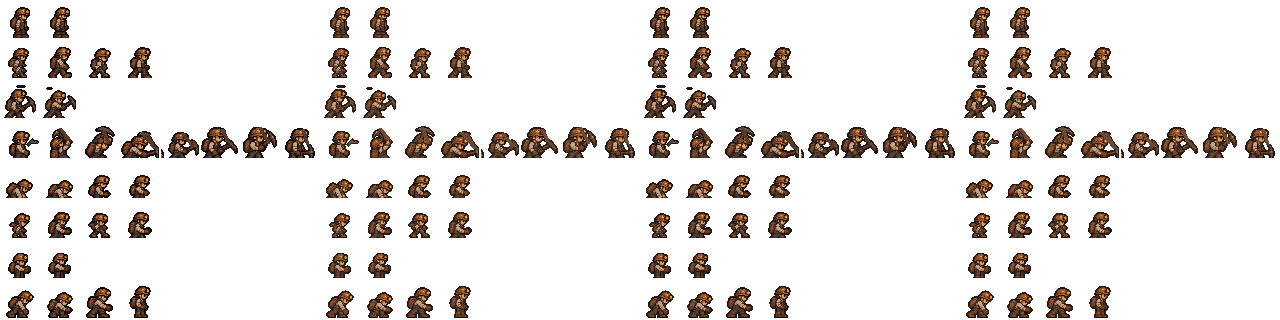
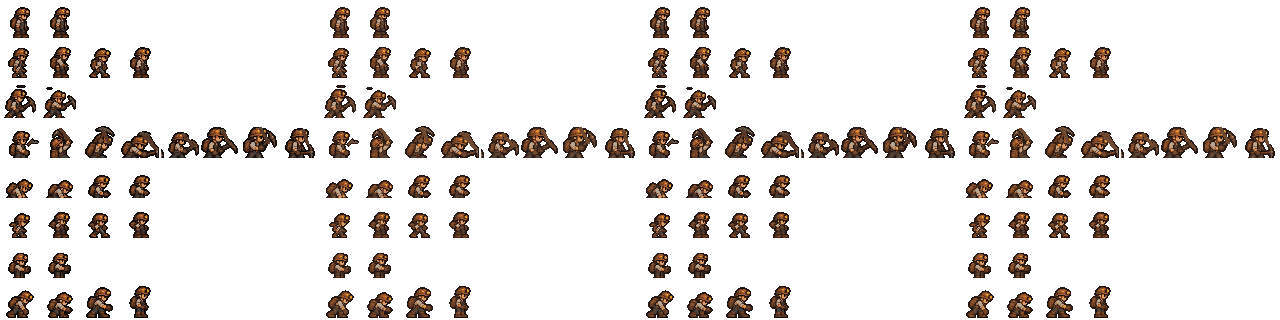
fix: add a visible side pose to walk cycle

diff --git a/tests/assets.test.ts b/tests/assets.test.ts
@@ -4,7 +4,12 @@ import { tmpdir } from 'node:os';
 import { join, resolve } from 'node:path';
 import { describe, expect, it, vi } from 'vitest';
 import { AssetStore } from '../src/render/assets/assetStore';
-import { D001_ASSET_FILES, D001_FALLBACK_GROUPS } from '../src/render/assets/d001Manifest';
+import {
+  D001_ASSET_FILES,
+  D001_ASSET_VERSION,
+  D001_FALLBACK_GROUPS,
+  d001AssetUrls,
+} from '../src/render/assets/d001Manifest';
 
 const root = resolve(import.meta.dirname, '..');
 const runtime = resolve(root, 'public/assets/d001/runtime');
@@ -43,6 +48,12 @@ function differenceMean(path: string, firstCrop: string, secondCrop: string, sec
 }
 
 describe('D-001 assets', () => {
+  it('version-tags runtime URLs so changed PNGs bypass the browser cache', () => {
+    const urls = Object.values(d001AssetUrls());
+    expect(urls).toHaveLength(Object.keys(D001_ASSET_FILES).length);
+    expect(urls.every((url) => url.endsWith(`?v=${D001_ASSET_VERSION}`))).toBe(true);
+  });
+
   it('matches every generated PNG to the generation specification dimensions', () => {
     const specification = JSON.parse(readFileSync(resolve(root, 'art/d001/generation-spec.json'), 'utf8')) as {
       runtimeAssets: Array<{ file: string; size: [number, number] }>;
@@ -190,6 +201,7 @@ describe('D-001 assets', () => {
         expect(Number(difference)).toBe(0);
       }
       const helmet = resolve(runtime, 'player-helmet-atlas.png');
+      const body = resolve(runtime, 'player-body-atlas.png');
       const boots = resolve(runtime, 'player-boots-atlas.png');
       const walkSpecification = JSON.parse(readFileSync(resolve(root, 'art/d001/generation-spec.json'), 'utf8')) as {
         playerMotion: {
@@ -206,7 +218,7 @@ describe('D-001 assets', () => {
         'left-foot-forward', 'side-upper-body-up', 'right-foot-forward', 'side-upper-body-up',
       ]);
       expect(walkSpecification.playerMotion.walk.lowerBodySources).toEqual([
-        'generated-left-foot', 'source-frame-1', 'generated-right-foot', 'source-frame-3',
+        'generated-left-foot', 'source-idle-frame-0', 'generated-right-foot', 'source-idle-frame-0',
       ]);
       expect(walkSpecification.playerMotion.walk.mirrorLowerBodyFrames).toEqual([]);
       for (const sourceFile of [
@@ -219,7 +231,12 @@ describe('D-001 assets', () => {
         expect(contacts.every((contact) => contact.length > 0)).toBe(true);
         expect(new Set(contacts.map((contact) => contact.join(','))).size).toBeGreaterThan(1);
         expect(contacts[0]!.join(',')).not.toBe(contacts[2]!.join(','));
-        expect(contacts[1]!.join(',')).not.toBe(contacts[3]!.join(','));
+        expect(contacts[1]!.join(',')).toBe(contacts[3]!.join(','));
+        expect(differenceMean(
+          body,
+          `40x40+40+${row * 40}`,
+          `40x40+120+${row * 40}`,
+        )).toBeGreaterThan(0.01);
         if (row === 1) {
           expect(opaqueComponentCount(boots, '40x5+0+73'), 'walk frame 0 foot silhouette').toBe(1);
           expect(opaqueComponentCount(boots, '40x5+80+73'), 'walk frame 2 foot silhouette').toBe(2);

diff --git a/src/render/assets/d001Manifest.ts b/src/render/assets/d001Manifest.ts
@@ -1,5 +1,10 @@
 export type D001AssetKey = keyof typeof D001_ASSET_FILES;
 
+// Public runtime PNGs keep stable filenames for the fallback manifest. Bump this
+// value whenever those files change so a deployed browser cannot reuse an older
+// atlas from its HTTP cache.
+export const D001_ASSET_VERSION = '020e172-walk-side-2';
+
 export const D001_ASSET_FILES = {
   backgroundRock: 'background-rock-base.png',
   backgroundTunnel: 'background-tunnel-back.png',
@@ -55,7 +60,7 @@ export const D001_NODE_ASSETS = {
 } as const satisfies Record<string, D001AssetKey>;
 
 export function d001AssetUrl(key: D001AssetKey): string {
-  return `${import.meta.env.BASE_URL}assets/d001/runtime/${D001_ASSET_FILES[key]}`;
+  return `${import.meta.env.BASE_URL}assets/d001/runtime/${D001_ASSET_FILES[key]}?v=${D001_ASSET_VERSION}`;
 }
 
 export function d001AssetUrls(): Record<D001AssetKey, string> {
